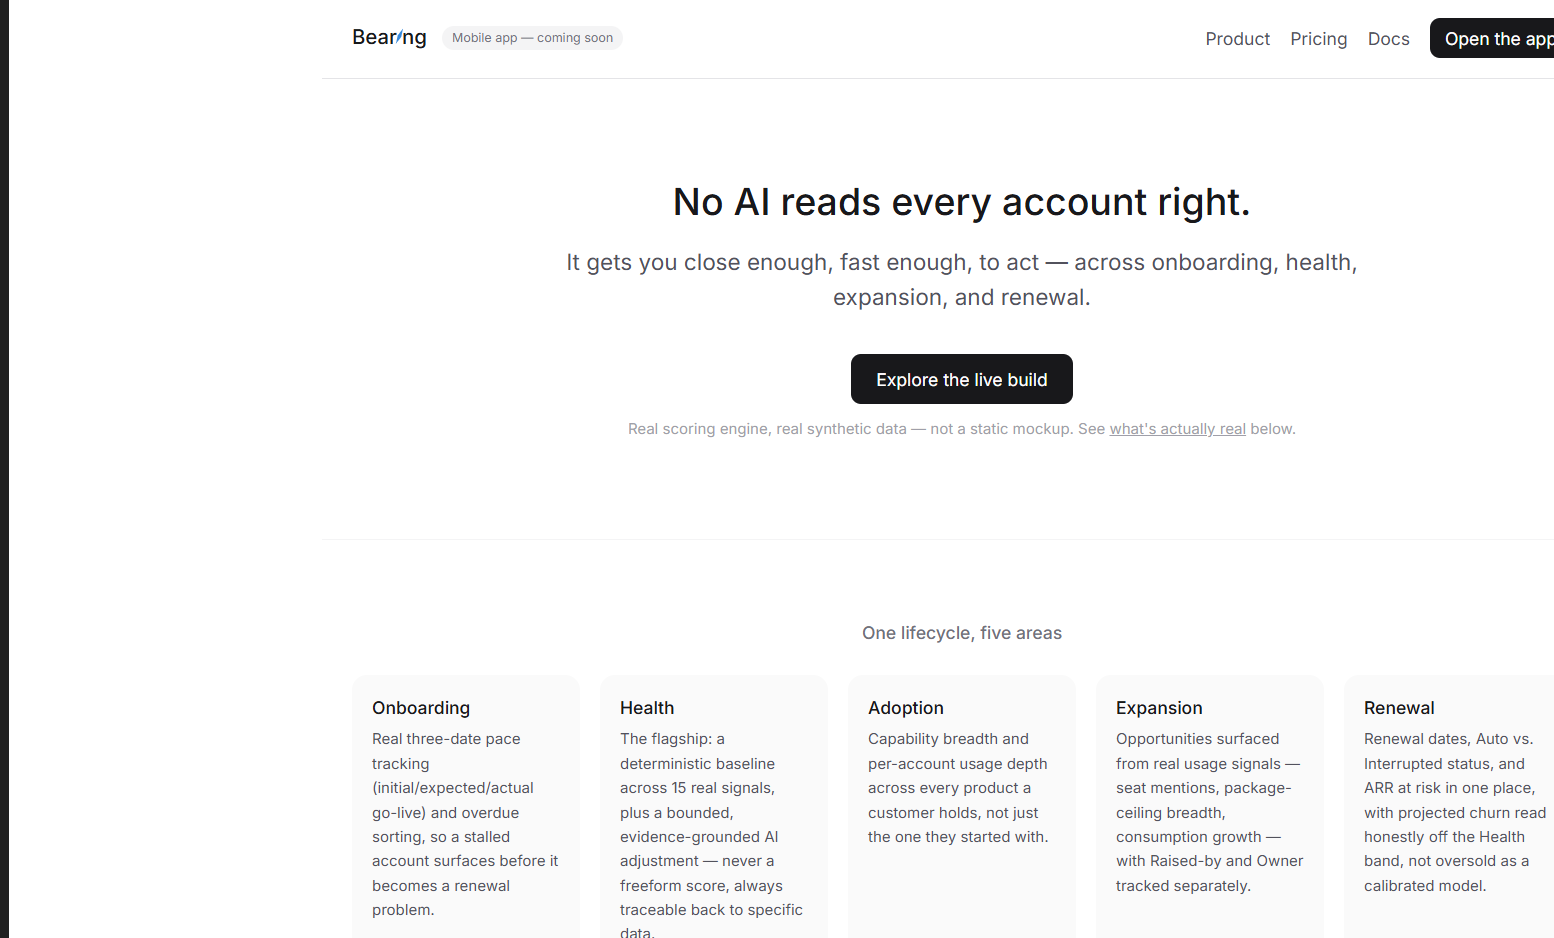
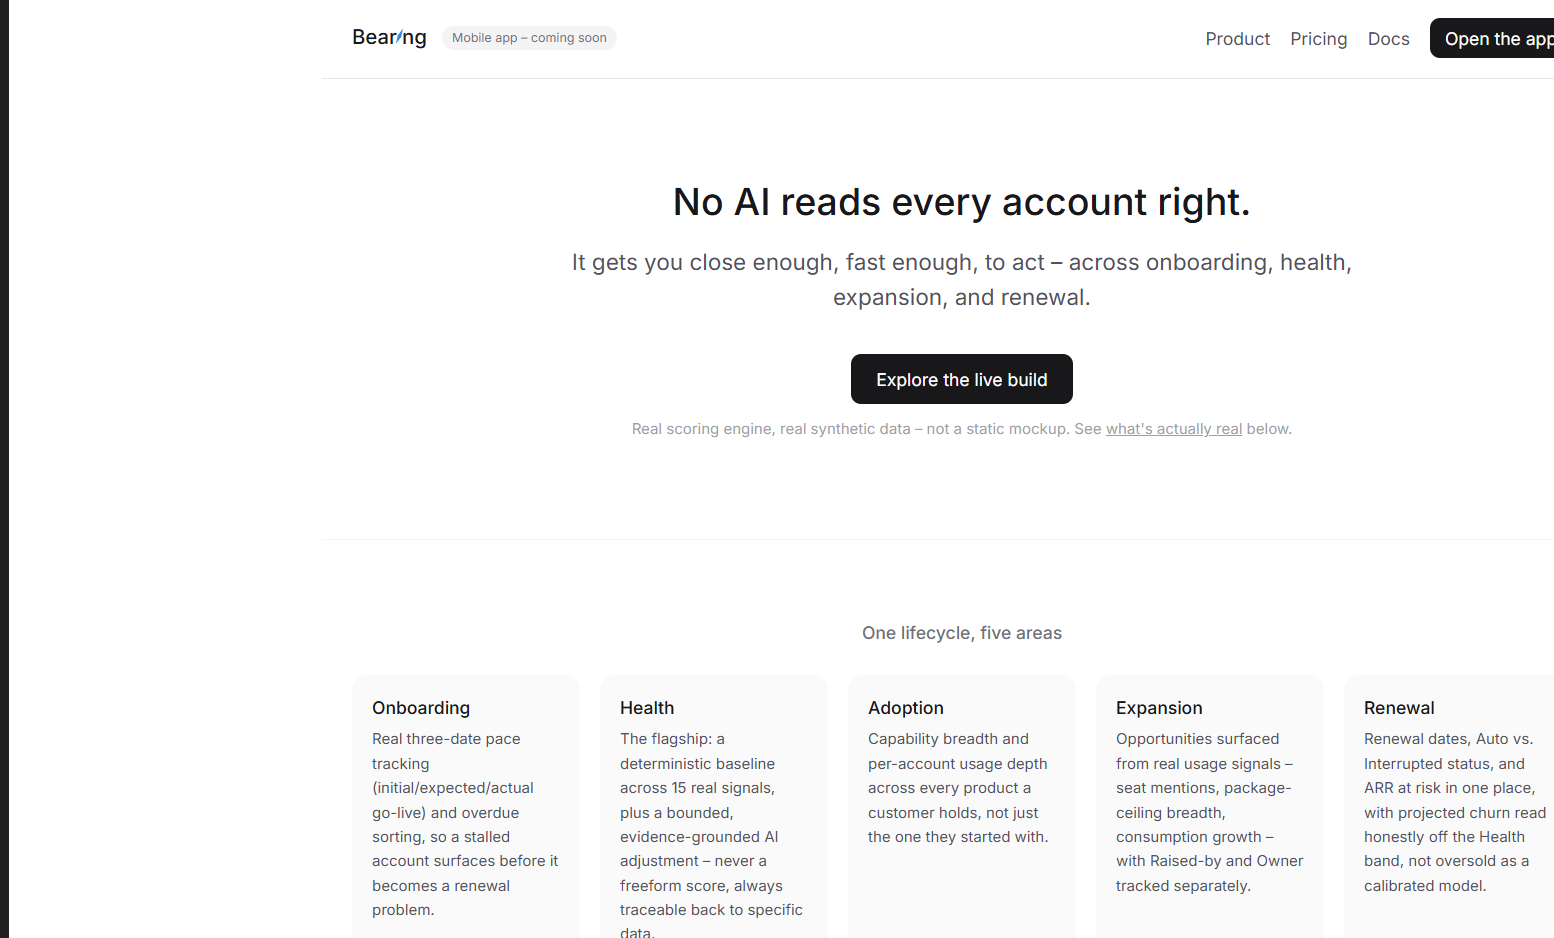
Fix em-dashes on the marketing page (missed in the initial build)
Standing repo rule is en-dash only, everywhere. The new /marketing
page slipped through with 11 em-dashes across the title, hero copy,
area cards, pricing, trust section, and footer - fixed all of them
and recaptured the screenshot to confirm. Also fixed a stale "9 app
screens" reference to 10 while in there (Calibration wasn't counted).

diff --git a/src/app/marketing/page.tsx b/src/app/marketing/page.tsx
@@ -2,7 +2,7 @@ import Link from "next/link";
 import Logo from "@/components/Logo";
 
 export const metadata = {
-  title: "Bearing — a portfolio concept for agentic Customer Success",
+  title: "Bearing – a portfolio concept for agentic Customer Success",
   description:
     "No AI reads every account right. It gets you close enough, fast enough, to act. A conceptual CS platform, built as a portfolio piece.",
 };
@@ -14,7 +14,7 @@ const AREAS = [
   },
   {
     name: "Health",
-    copy: "The flagship: a deterministic baseline across 15 real signals, plus a bounded, evidence-grounded AI adjustment — never a freeform score, always traceable back to specific data.",
+    copy: "The flagship: a deterministic baseline across 15 real signals, plus a bounded, evidence-grounded AI adjustment – never a freeform score, always traceable back to specific data.",
   },
   {
     name: "Adoption",
@@ -22,7 +22,7 @@ const AREAS = [
   },
   {
     name: "Expansion",
-    copy: "Opportunities surfaced from real usage signals — seat mentions, package-ceiling breadth, consumption growth — with Raised-by and Owner tracked separately.",
+    copy: "Opportunities surfaced from real usage signals – seat mentions, package-ceiling breadth, consumption growth – with Raised-by and Owner tracked separately.",
   },
   {
     name: "Renewal",
@@ -59,7 +59,7 @@ export default function MarketingPage() {
         <div className="flex items-center gap-3">
           <Logo height="1.1em" />
           <span className="text-[10px] rounded-full bg-zinc-100 text-zinc-500 px-2 py-0.5">
-            Mobile app — coming soon
+            Mobile app – coming soon
           </span>
         </div>
         <nav className="flex items-center gap-4 text-sm text-zinc-600">
@@ -82,7 +82,7 @@ export default function MarketingPage() {
           No AI reads every account right.
         </h1>
         <p className="text-lg text-zinc-600 mb-8">
-          It gets you close enough, fast enough, to act — across onboarding, health, expansion, and renewal.
+          It gets you close enough, fast enough, to act – across onboarding, health, expansion, and renewal.
         </p>
         <Link
           href="/"
@@ -91,7 +91,7 @@ export default function MarketingPage() {
           Explore the live build
         </Link>
         <p className="mt-3 text-xs text-zinc-400">
-          Real scoring engine, real synthetic data — not a static mockup. See{" "}
+          Real scoring engine, real synthetic data – not a static mockup. See{" "}
           <a href="#trust" className="underline">what&apos;s actually real</a> below.
         </p>
       </section>
@@ -111,7 +111,7 @@ export default function MarketingPage() {
       <section id="pricing" className="max-w-5xl mx-auto px-6 py-16 border-t border-zinc-100">
         <h2 className="text-sm font-medium text-zinc-500 mb-1 text-center">Illustrative pricing</h2>
         <p className="text-xs text-zinc-400 mb-8 text-center">
-          Two-axis: seats and tracked-account volume, not seats alone — a CS org with few users but a large book
+          Two-axis: seats and tracked-account volume, not seats alone – a CS org with few users but a large book
           shouldn&apos;t be priced like a seat-only tool. Figures are illustrative, not a real price list.
         </p>
         <div className="grid grid-cols-1 md:grid-cols-3 gap-4">
@@ -132,16 +132,16 @@ export default function MarketingPage() {
       <section id="trust" className="max-w-3xl mx-auto px-6 py-16 border-t border-zinc-100">
         <h2 className="text-sm font-medium text-zinc-500 mb-4">What&apos;s actually real</h2>
         <p className="text-sm text-zinc-600 leading-relaxed mb-3">
-          This is a portfolio project, not a real company or live product. The Health-scoring engine, the 9 app
-          screens, and the data model are genuinely built and run against real (synthetic) seeded data and real
-          Anthropic API calls — see{" "}
+          This is a portfolio project, not a real company or live product. The Health-scoring engine, the 10
+          dashboard screens, and the data model are genuinely built and run against real (synthetic) seeded data and
+          real Anthropic API calls – see{" "}
           <a href="https://github.com/ddkeyworth/ai-customer-health-platform" className="underline">
             the repo&apos;s README and TESTING.md
           </a>{" "}
           for what&apos;s been verified, not just claimed.
         </p>
         <p className="text-sm text-zinc-600 leading-relaxed">
-          There is no live public deployment — this runs locally only. If it were deployed, the stack would be
+          There is no live public deployment – this runs locally only. If it were deployed, the stack would be
           Next.js on Vercel with Postgres on Neon (the same free-tier services already used for local development),
           gated on real auth and rate limiting first.
         </p>
@@ -184,7 +184,7 @@ export default function MarketingPage() {
 
           <div id="legal" className="rounded-xl bg-zinc-50 p-4 text-xs text-zinc-500 leading-relaxed mb-6">
             <p className="mb-2">
-              <span className="font-medium text-zinc-700">Security:</span> design principles only — no real
+              <span className="font-medium text-zinc-700">Security:</span> design principles only – no real
               security audit, certification, or hardened infrastructure exists for this local-only build.
             </p>
             <p className="mb-2">
@@ -199,7 +199,7 @@ export default function MarketingPage() {
           </div>
 
           <p className="text-xs text-zinc-400">
-            &copy; 2026 Bearing. Bearing is a portfolio demo project — not a real company or live product.
+            &copy; 2026 Bearing. Bearing is a portfolio demo project – not a real company or live product.
           </p>
         </div>
       </footer>
